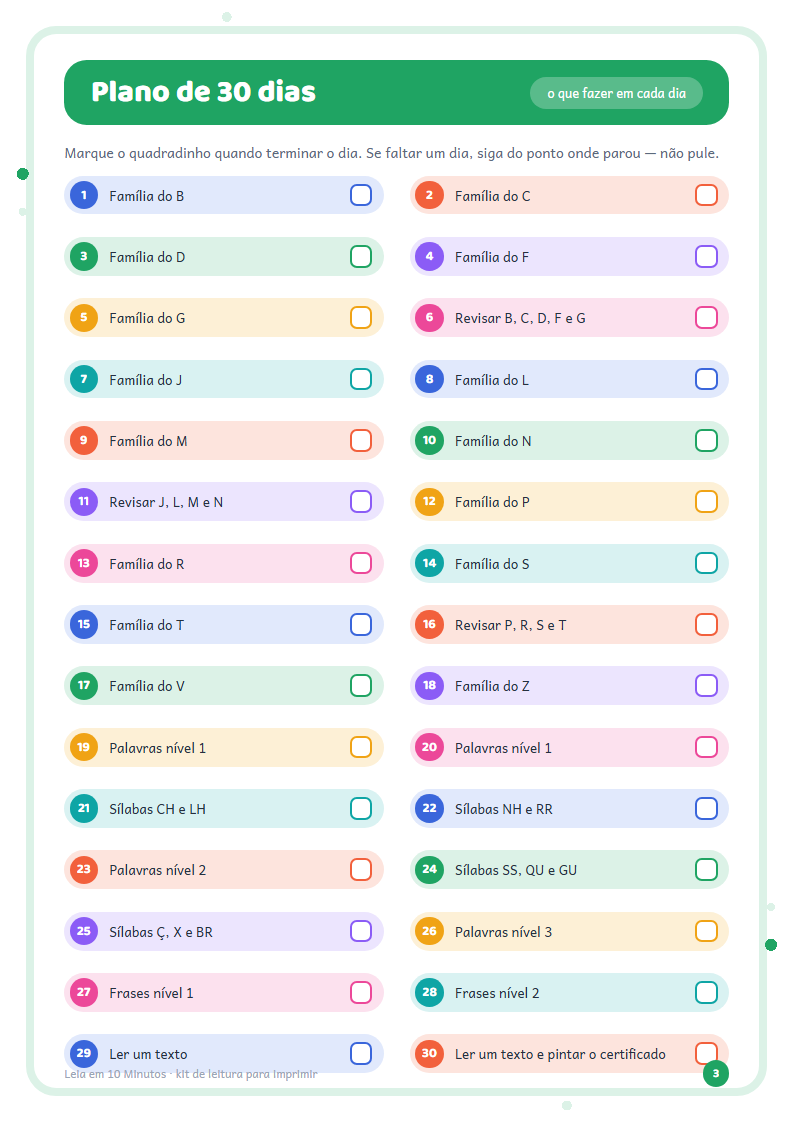
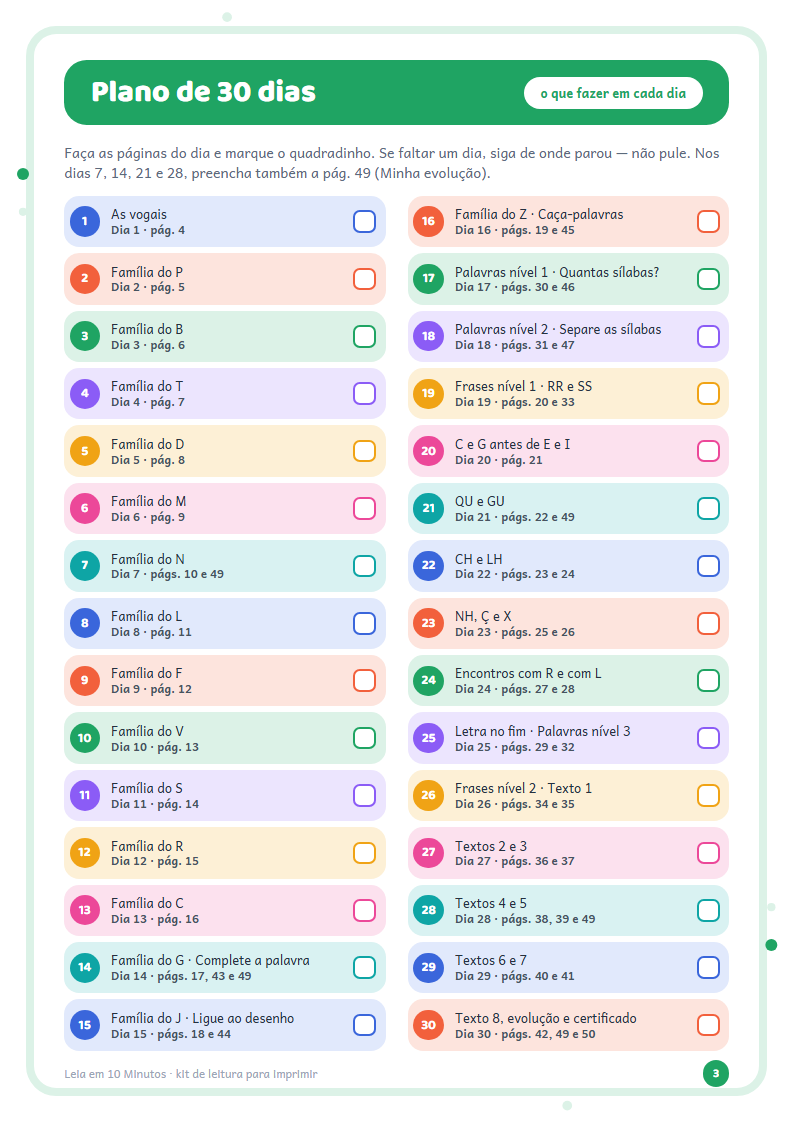
Landing: ordem das famílias do kit novo, encontros reais, linguagem neutra, timer começa em 15:00 e rotina real no lugar dos depoimentos ilustrativos; prévias regeradas

diff --git a/index.html b/index.html
@@ -220,7 +220,7 @@ h3{font-size:clamp(19px,2.2vw,23px);font-weight:700}
 .tst__g{display:grid;grid-template-columns:repeat(3,1fr);gap:16px;margin-top:36px}
 .tq{background:#fff;border:3px solid var(--line);border-radius:22px;padding:24px;display:flex;
   flex-direction:column;gap:12px;box-shadow:0 5px 0 rgba(36,48,63,.07)}
-.tq div{color:var(--amarelo);font-size:15px;letter-spacing:.08em}
+.tq div{color:var(--soft);font-size:13px;font-weight:800;letter-spacing:.04em;text-transform:uppercase}
 .tq blockquote{margin:0;font-size:16px;line-height:1.5;font-weight:600}
 .tq:nth-child(1){border-color:var(--azul)}.tq:nth-child(2){border-color:var(--verde)}.tq:nth-child(3){border-color:var(--coral)}
 .tq cite{font-style:normal;font-size:12.5px;font-weight:700;color:var(--soft);margin-top:auto}
@@ -360,7 +360,7 @@ src="https://www.facebook.com/tr?id=1107457028532296&ev=PageView&noscript=1"></n
 <div class="prog" id="prog" aria-hidden="true"></div>
 
 <div class="top" id="top">
-  <div class="top__in" id="topTxt">🎉 Oferta de lançamento: <b>R$ 19,90</b> em vez de R$ 47 · o desconto some em <span class="top__c" data-clock>--:--</span></div>
+  <div class="top__in" id="topTxt">🎉 Oferta de lançamento: <b>R$ 19,90</b> em vez de R$ 47 · o desconto some em <span class="top__c" data-clock>15:00</span></div>
 </div>
 
 <header class="nav" id="nav">
@@ -401,7 +401,7 @@ src="https://www.facebook.com/tr?id=1107457028532296&ev=PageView&noscript=1"></n
     <div class="hero__cta r is-in" data-d="5">
       <a href="#ofertas" class="btn btn--lg btn--pulse">Quero o kit por R$ 19,90</a>
       <span class="hero__price"><s>de R$ 47</s> · <b>R$ 19,90</b> no Pix · pagamento único</span>
-      <span class="hero__timer">⏱ o desconto some em <b data-clock>--:--</b></span>
+      <span class="hero__timer">⏱ o desconto some em <b data-clock>15:00</b></span>
     </div>
   </div>
 </section>
@@ -442,9 +442,9 @@ src="https://www.facebook.com/tr?id=1107457028532296&ev=PageView&noscript=1"></n
     <h2 class="r sw" data-d="1" style="margin:14px 0 10px">Do som da sílaba ao texto inteiro</h2>
     <p class="lead r" data-d="2" style="max-width:56ch;margin:0 auto">Cada etapa só começa quando a anterior está firme. É isso que material solto nunca faz.</p>
     <div class="steps__g" style="text-align:left">
-      <div class="st r"><img class="st__f" src="img/fig/estrela.svg" alt="" width="54" height="54"><div class="st__n">01</div><h3>A sílaba</h3><p>15 famílias simples e 10 páginas de complexas: CH, LH, NH, RR, QU, Ç, X, BR, TR e mais.</p></div>
-      <div class="st r" data-d="1"><img class="st__f" src="img/fig/bolo.svg" alt="" width="54" height="54"><div class="st__n">02</div><h3>A palavra</h3><p>90 palavras em 3 níveis, com caixinha para marcar cada uma lida sozinho e campo de data.</p></div>
-      <div class="st r" data-d="2"><img class="st__f" src="img/fig/lapis.svg" alt="" width="54" height="54"><div class="st__n">03</div><h3>A frase</h3><p>22 frases curtas e maiores, letra grande, uma ideia por linha para ele não se perder.</p></div>
+      <div class="st r"><img class="st__f" src="img/fig/estrela.svg" alt="" width="54" height="54"><div class="st__n">01</div><h3>A sílaba</h3><p>As vogais, 15 famílias simples e 10 páginas de complexas: CH, LH, NH, RR, QU, Ç, X, BR, FL e mais.</p></div>
+      <div class="st r" data-d="1"><img class="st__f" src="img/fig/bolo.svg" alt="" width="54" height="54"><div class="st__n">02</div><h3>A palavra</h3><p>90 palavras em 3 níveis, com caixinha para marcar cada uma lida sem ajuda e campo de data.</p></div>
+      <div class="st r" data-d="2"><img class="st__f" src="img/fig/lapis.svg" alt="" width="54" height="54"><div class="st__n">03</div><h3>A frase</h3><p>22 frases curtas e maiores, letra grande, uma ideia por linha para não se perder na leitura.</p></div>
       <div class="st r" data-d="3"><img class="st__f" src="img/fig/livro.svg" alt="" width="54" height="54"><div class="st__n">04</div><h3>O texto</h3><p>8 historinhas com 3 perguntas cada, para treinar entender o que leu — não só decifrar.</p></div>
     </div>
   </div>
@@ -475,13 +475,13 @@ src="https://www.facebook.com/tr?id=1107457028532296&ev=PageView&noscript=1"></n
     <span class="eyebrow r">O que vem dentro</span>
     <h2 class="r sw" data-d="1" style="margin-top:14px">50 páginas. Imprime hoje, usa hoje.</h2>
     <div class="inside__g" style="text-align:left">
-      <div class="ic r"><b>15</b><h3>Famílias silábicas</h3><p>B, C, D, F, G, J, L, M, N, P, R, S, T, V e Z — sílaba grande, palavra com desenho e espaço para escrever.</p></div>
-      <div class="ic r" data-d="1"><b>10</b><h3>Sílabas complexas</h3><p>CH, LH, NH, RR, SS, QU, GU, Ç, X e os encontros BR, TR, PR, GR, FL, PL. Onde a maioria trava.</p></div>
-      <div class="ic r" data-d="2"><b>90</b><h3>Palavras em 3 níveis</h3><p>Com caixinha para marcar cada uma lida sozinho e campo de data ao lado.</p></div>
+      <div class="ic r"><b>15</b><h3>Famílias silábicas</h3><p>Depois das vogais, do som mais fácil ao mais difícil: P, B, T, D, M, N, L, F, V, S, R, C, G, J e Z. Sílaba grande, palavra com desenho e espaço para escrever.</p></div>
+      <div class="ic r" data-d="1"><b>10</b><h3>Sílabas complexas</h3><p>CH, LH, NH, RR, SS, QU, GU, Ç, X e os encontros BR, DR, PR, GR, BL, CL, FL e GL. Onde a maioria trava.</p></div>
+      <div class="ic r" data-d="2"><b>90</b><h3>Palavras em 3 níveis</h3><p>Com caixinha para marcar cada uma lida sem ajuda e campo de data ao lado.</p></div>
       <div class="ic r"><b>8</b><h3>Textos com perguntas</h3><p>Historinhas curtas com 3 perguntas cada, para treinar a compreensão.</p></div>
-      <div class="ic r" data-d="1"><b>22</b><h3>Frases em 2 níveis</h3><p>Letra grande, uma ideia por linha, para ele não se perder no meio.</p></div>
+      <div class="ic r" data-d="1"><b>22</b><h3>Frases em 2 níveis</h3><p>Letra grande, uma ideia por linha, para não se perder no meio.</p></div>
       <div class="ic r" data-d="2"><b>5</b><h3>Brincadeiras</h3><p>Complete a palavra, ligue ao desenho, caça-palavras, quantas sílabas e separe as sílabas.</p></div>
-      <div class="ic ic--d r" data-d="3"><b>+7</b><h3>Páginas de apoio</h3><p>Plano de 30 dias, guia para você, página com dicas para a professora, ficha de progresso e certificado de leitor para ele pendurar na parede.</p></div>
+      <div class="ic ic--d r" data-d="3"><b>+6</b><h3>Páginas de apoio</h3><p>Capa, guia de como usar, plano de 30 dias com a página de cada dia, página para a professora, gráfico de evolução e certificado de leitura para pendurar na parede.</p></div>
     </div>
   </div>
 </section>
@@ -489,14 +489,13 @@ src="https://www.facebook.com/tr?id=1107457028532296&ev=PageView&noscript=1"></n
 <section class="tst">
   <svg class="wv" viewBox="0 0 1440 56" preserveAspectRatio="none" aria-hidden="true"><path d="M0 0h1440v22c-120 26-240 34-360 22s-240-34-360-22-240 34-360 22S120 22 0 44z" fill="#FFF4DF"/></svg>
   <div class="wrap center">
-    <span class="eyebrow r">Quem já usou</span>
-    <h2 class="r sw" data-d="1" style="margin-top:14px">Em duas semanas dá pra ver a diferença</h2>
+    <span class="eyebrow r">Na prática</span>
+    <h2 class="r sw" data-d="1" style="margin-top:14px">Como fica a rotina com o kit</h2>
     <div class="tst__g" style="text-align:left">
-      <figure class="tq r"><div>★★★★★</div><blockquote>"Meu filho de 6 anos travava em toda palavra. Com as fichas de sílaba ele começou a juntar sozinho. Hoje lê as frases do kit sem ajuda."</blockquote><cite>mãe do Theo, 6 anos</cite></figure>
-      <figure class="tq r" data-d="1"><div>★★★★★</div><blockquote>"Uso com meus alunos do 1º ano como tarefa de casa. As caixinhas de marcar viraram competição saudável na sala."</blockquote><cite>Prof. Camila · 1º ano</cite></figure>
-      <figure class="tq r" data-d="2"><div>★★★★★</div><blockquote>"O que mais gostei foi o guia. Eu não sabia que era pra falar a sílaba e não a palavra inteira. Mudou tudo."</blockquote><cite>pai da Alice, 7 anos</cite></figure>
+      <figure class="tq r"><div>🗓 Em casa</div><blockquote>Imprima só as páginas da semana. O plano de 30 dias diz qual página fazer em cada dia, então ninguém precisa planejar nada: senta, faz a página e pronto.</blockquote><cite>10 minutos por dia</cite></figure>
+      <figure class="tq r" data-d="1"><div>✅ O progresso</div><blockquote>Marque a caixinha só quando a palavra sair sem ajuda. No fim de cada semana, preencha o gráfico de evolução: no dia 30 dá para comparar com o dia 1, com data.</blockquote><cite>ficha de evolução, página 49</cite></figure>
+      <figure class="tq r" data-d="2"><div>🏫 Na escola</div><blockquote>A professora pode mandar uma página por dia como tarefa de casa, na ordem do kit. Tem uma página só com orientações para usar em sala.</blockquote><cite>página para a professora, página 48</cite></figure>
     </div>
-    <p class="note">Depoimentos ilustrativos de uso do material.</p>
   </div>
 </section>
 
@@ -600,7 +599,7 @@ src="https://www.facebook.com/tr?id=1107457028532296&ev=PageView&noscript=1"></n
   <div class="fig fig--f4" aria-hidden="true"><img src="img/fig/sapo.svg" alt="" width="60" height="60"></div>
   <div class="wrap">
     <span class="eyebrow r">Última coisa</span>
-    <h2 class="r sw" data-d="1">Hoje à noite pode ser a primeira página lida sozinho</h2>
+    <h2 class="r sw" data-d="1">Hoje à noite pode ser a primeira página lida sem ajuda</h2>
     <p class="r" data-d="2">Ou pode ser mais um mês de "não quero ler". A diferença custa menos que uma pizza e uma folha de papel.</p>
     <a href="#ofertas" class="btn btn--lg r" data-d="3">Começar por R$ 19,90</a>
     <div class="final__m r" data-d="4">de R$ 47 · acesso imediato · garantia de 7 dias</div>
